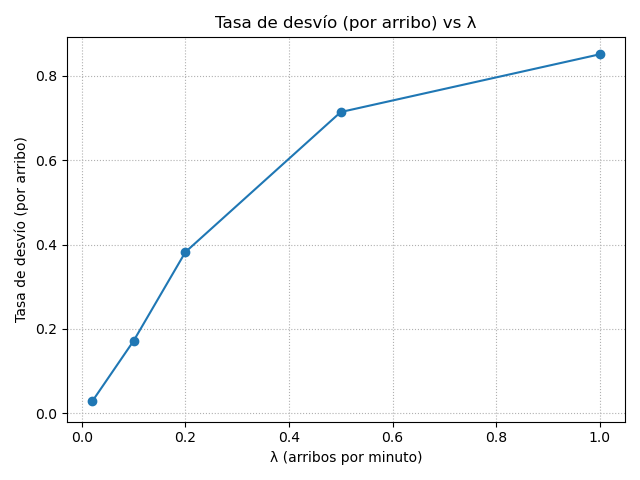
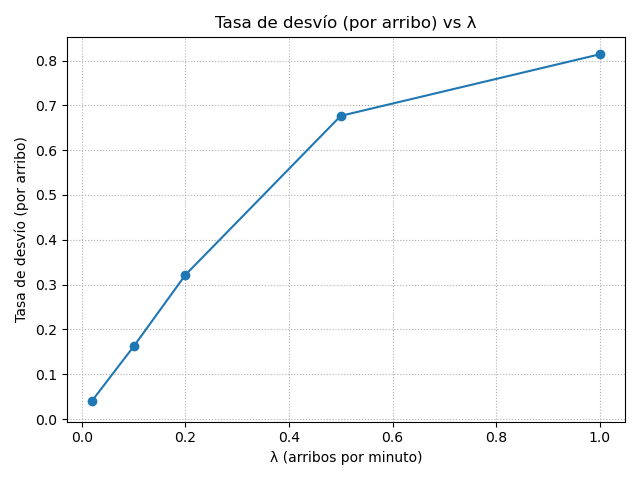
hola

diff --git a/comparar_4y5.py b/comparar_4y5.py
@@ -1,0 +1,127 @@
+# comparar_ej4_ej5.py
+import os
+import numpy as np
+import pandas as pd
+import matplotlib.pyplot as plt
+
+# Paths a los CSV que generan tus scripts
+EJ4_CSV = "ej4_outputs/ej4_resultados.csv"
+EJ5_CSV = "ej5_outputs/ej5_resultados.csv"  # ajustá si guardaste en otro lado (p.ej. "ej5_resultados.csv")
+OUT_DIR = "ej45_outputs"
+
+os.makedirs(OUT_DIR, exist_ok=True)
+
+def load_df(path):
+    if not os.path.exists(path):
+        raise FileNotFoundError(f"No encontré {path}. Corré primero el script que lo genera.")
+    return pd.read_csv(path)
+
+def align_on_lambda(df4, df5):
+    """Deja sólo los λ en común y ordena."""
+    common = sorted(set(df4["lambda_per_min"]).intersection(set(df5["lambda_per_min"])))
+    df4 = df4[df4["lambda_per_min"].isin(common)].sort_values("lambda_per_min").reset_index(drop=True)
+    df5 = df5[df5["lambda_per_min"].isin(common)].sort_values("lambda_per_min").reset_index(drop=True)
+    return df4, df5
+
+def save_overlay_plot(df4, df5, ycol, ylabel, out_path, with_ci=True):
+    """
+    ycol: e.g. 'avg_delay_min_mean' | 'congestion_rate_mean' | 'divert_rate_mean'
+    Se asume que existen columnas *_ci_low y *_ci_high con mismo prefijo.
+    """
+    base = ycol.replace("_mean", "")
+    x = df4["lambda_per_min"].values
+    y4 = df4[ycol].values
+    y5 = df5[ycol].values
+
+    plt.figure()
+    if with_ci and f"{base}_ci_low" in df4 and f"{base}_ci_low" in df5:
+        y4err = np.vstack([y4 - df4[f"{base}_ci_low"].values,
+                           df4[f"{base}_ci_high"].values - y4])
+        y5err = np.vstack([y5 - df5[f"{base}_ci_low"].values,
+                           df5[f"{base}_ci_high"].values - y5])
+        plt.errorbar(x, y4, yerr=y4err, fmt='o-', label="Ej4 (sin interrupciones)")
+        plt.errorbar(x, y5, yerr=y5err, fmt='s--', label="Ej5 (con interrupciones 10%)")
+    else:
+        plt.plot(x, y4, 'o-', label="Ej4 (sin interrupciones)")
+        plt.plot(x, y5, 's--', label="Ej5 (con interrupciones 10%)")
+
+    plt.xlabel("λ (arribos por minuto)")
+    plt.ylabel(ylabel)
+    plt.title(f"{ylabel} vs λ")
+    plt.grid(True, linestyle=":")
+    plt.legend()
+    plt.tight_layout()
+    plt.savefig(out_path)
+    plt.close()
+
+def save_delta_plot(df4, df5, ycol, ylabel, out_path):
+    """
+    Dibuja la diferencia (Ej5 - Ej4) con IC95% propagando errores (aprox. independencia).
+    """
+    base = ycol.replace("_mean", "")
+    x = df4["lambda_per_min"].values
+    y4 = df4[ycol].values
+    y5 = df5[ycol].values
+    delta = y5 - y4
+
+    # SE ≈ (ci_high - ci_low) / (2*1.96)
+    se4 = (df4[f"{base}_ci_high"].values - df4[f"{base}_ci_low"].values) / (2*1.96)
+    se5 = (df5[f"{base}_ci_high"].values - df5[f"{base}_ci_low"].values) / (2*1.96)
+    se_delta = np.sqrt(se4**2 + se5**2)
+    ci_low = delta - 1.96*se_delta
+    ci_high = delta + 1.96*se_delta
+
+    yerr = np.vstack([delta - ci_low, ci_high - delta])
+
+    plt.figure()
+    plt.errorbar(x, delta, yerr=yerr, fmt='o-')
+    plt.axhline(0, color='k', linewidth=0.8, linestyle=':')
+    plt.xlabel("λ (arribos por minuto)")
+    plt.ylabel(f"Δ {ylabel}  (Ej5 − Ej4)")
+    plt.title(f"Impacto de interrupciones (10%) en {ylabel}")
+    plt.grid(True, linestyle=":")
+    plt.tight_layout()
+    plt.savefig(out_path)
+    plt.close()
+
+def print_side_by_side(df4, df5, ycol, label):
+    base = ycol.replace("_mean", "")
+    print(f"\n--- {label} ---")
+    for i, row in df4.iterrows():
+        lam = row["lambda_per_min"]
+        r4 = row[ycol]
+        r5 = df5.loc[i, ycol]
+        ci4 = (row[f"{base}_ci_low"], row[f"{base}_ci_high"])
+        ci5 = (df5.loc[i, f"{base}_ci_low"], df5.loc[i, f"{base}_ci_high"])
+        print(f"λ={lam:>5.2f} | Ej4: {r4:.3f} [{ci4[0]:.3f}, {ci4[1]:.3f}]  |  Ej5: {r5:.3f} [{ci5[0]:.3f}, {ci5[1]:.3f}]  | Δ={r5-r4:+.3f}")
+
+def main():
+    df4 = load_df(EJ4_CSV)
+    df5 = load_df(EJ5_CSV)
+    df4, df5 = align_on_lambda(df4, df5)
+
+    # Overlays
+    save_overlay_plot(df4, df5, "avg_delay_min_mean", "Atraso promedio (min)",
+                      os.path.join(OUT_DIR, "delay_overlay.png"))
+    save_overlay_plot(df4, df5, "congestion_rate_mean", "Frecuencia de congestión",
+                      os.path.join(OUT_DIR, "congestion_overlay.png"))
+    save_overlay_plot(df4, df5, "divert_rate_mean", "Tasa de desvío (por arribo)",
+                      os.path.join(OUT_DIR, "diverts_overlay.png"))
+
+    # Deltas (impacto Ej5−Ej4)
+    save_delta_plot(df4, df5, "avg_delay_min_mean", "Atraso promedio (min)",
+                    os.path.join(OUT_DIR, "delay_delta.png"))
+    save_delta_plot(df4, df5, "congestion_rate_mean", "Frecuencia de congestión",
+                    os.path.join(OUT_DIR, "congestion_delta.png"))
+    save_delta_plot(df4, df5, "divert_rate_mean", "Tasa de desvío (por arribo)",
+                    os.path.join(OUT_DIR, "diverts_delta.png"))
+
+    # Resumen en consola
+    print_side_by_side(df4, df5, "avg_delay_min_mean", "Atraso promedio (min)")
+    print_side_by_side(df4, df5, "congestion_rate_mean", "Frecuencia de congestión")
+    print_side_by_side(df4, df5, "divert_rate_mean", "Tasa de desvío (por arribo)")
+
+    print(f"\nListo. PNGs en: {OUT_DIR}")
+
+if __name__ == "__main__":
+    main()

diff --git a/main_ej5.py b/main_ej5.py
@@ -158,14 +158,6 @@ class TraficoAviones:
             av = self.planes[aid]
             vmin, vmax = velocidad_por_distancia(dist_prev[aid])
 
-            # Chequeo de interrupción (go-around por viento)  (EJERCICIO 5)
-            if dist_prev[aid] <= 20.0:  # solo en la fase final (<20 nm)
-                if self.rng.random() < 0.1:  # 1/10 de probabilidad
-                    av.estado = "interrupted"
-                    av.velocidad_kts = VEL_TURNAROUND
-                    self.mover_a_interrupted(aid)
-                    continue  # salto a siguiente avión, no sigo con la lógica normal
-
             leader_id = av.leader_id
             if leader_id is None:
                 av.velocidad_kts = vmax
@@ -353,19 +345,29 @@ class TraficoAviones:
 
             # Si no encontró hueco válido en ningún caso → sigue en turnaround o interrupted
 
-
     def mover_paso(self) -> None:
         # approach
         for aid in list(self.activos):
             av = self.planes[aid]
             avance_nm = knots_to_nm_per_min(av.velocidad_kts) * MINUTE
+
+            # Go-around SOLO si este tick ya llegaría (último minuto antes de tocar pista)
+            if av.distancia_nm <= avance_nm:
+                if self.rng.random() < 0.1:  # 10% de chances
+                    av.estado = "interrupted"
+                    av.velocidad_kts = VEL_TURNAROUND
+                    self.mover_a_interrupted(aid)
+                    continue  # no aterriza este minuto
+
+            # Avance normal y eventual aterrizaje
             av.distancia_nm = max(0.0, av.distancia_nm - avance_nm)
-            if av.distancia_nm <= 0.0: # llegó a aep
+            if av.distancia_nm <= 0.0:  # llegó a AEP
                 av.distancia_nm = 0.0
                 av.velocidad_kts = 0.0
                 av.estado = "landed"
                 av.aterrizaje_min = self.current_min
                 self.mover_a_inactivos(aid)
+
         # turnaround
         for aid in list(self.turnaround):
             av = self.planes[aid]
@@ -392,6 +394,48 @@ class TraficoAviones:
 
         # recalcular orden y líderes para próximo paso
         self.ordenar_activos()
+
+
+
+    """ def mover_paso(self) -> None:
+        # approach
+        for aid in list(self.activos):
+            av = self.planes[aid]
+            avance_nm = knots_to_nm_per_min(av.velocidad_kts) * MINUTE
+            av.distancia_nm = max(0.0, av.distancia_nm - avance_nm)
+            if av.distancia_nm <= 0.0: # llegó a aep
+                av.distancia_nm = 0.0
+                av.velocidad_kts = 0.0
+                av.estado = "landed"
+                av.aterrizaje_min = self.current_min
+                self.mover_a_inactivos(aid)
+        # turnaround
+        for aid in list(self.turnaround):
+            av = self.planes[aid]
+            if aid in self.recien_turnaround:
+                # no mover en el mismo paso del cambio a turnaround
+                continue
+            retro_nm = knots_to_nm_per_min(VEL_TURNAROUND) * MINUTE
+            av.distancia_nm += retro_nm
+            if av.distancia_nm >= MAX_DIVERTED_DISTANCE:
+                av.estado = "diverted"
+                self.mover_a_inactivos(aid)
+
+        # interrupted
+        for aid in list(self.interrupted):
+            
+            av = self.planes[aid]
+            if aid in self.recien_interrupted:
+                # no mover en el mismo paso del cambio a interrupted
+                continue
+            retro_nm = knots_to_nm_per_min(VEL_TURNAROUND) * MINUTE
+            av.distancia_nm += retro_nm
+            if av.distancia_nm >= MAX_DIVERTED_DISTANCE:
+                av.estado = "diverted"
+                self.mover_a_inactivos(aid)
+
+        # recalcular orden y líderes para próximo paso
+        self.ordenar_activos() """
 
     def bernoulli_aparicion(self, lam_per_min: float, t0: int = DAY_START, t1: int = DAY_END) -> List[int]:
         '''
